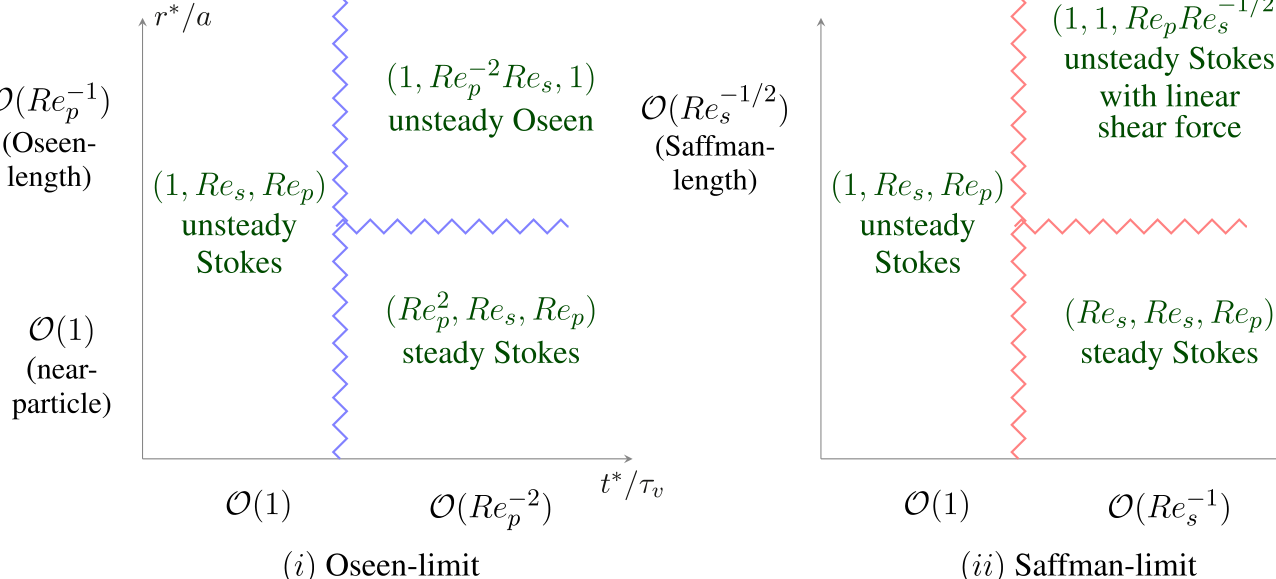
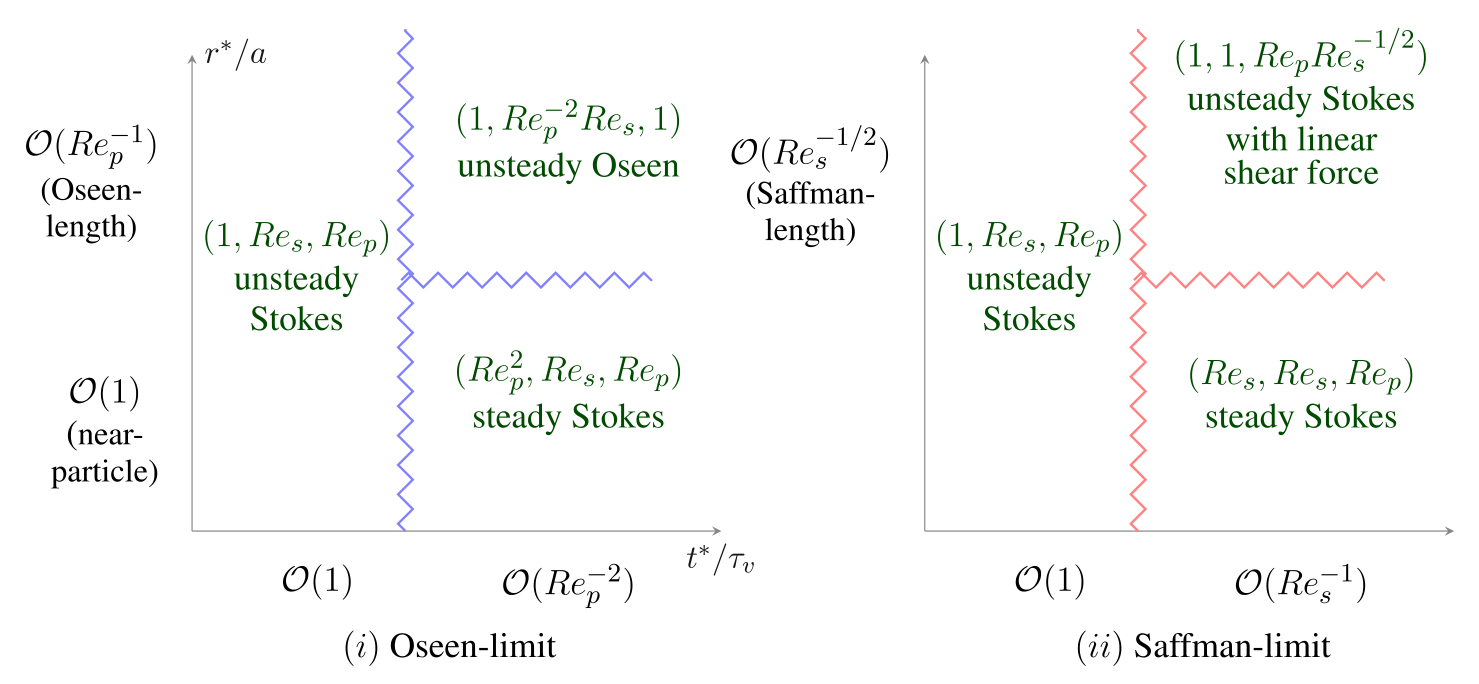
Restore complete axes and labels in example Figure 1

diff --git a/examples/README.md b/examples/README.md
@@ -21,6 +21,8 @@
 
 图 1 的原图注注明其示意构思源于 Bentwich and Miloh（1978）以及 Sano（1981）；这一署名和原参考文献保留。原文图注与表 1 未标示另行转载许可或独立第三方版权例外。示例中的论文文字、译文改编和图 1 按 CC BY 4.0 使用，并保留来源与改编说明。
 
+图 1 从原 PDF 第 4 页重新渲染，裁切范围为 `(51, 85, 544, 313)` PDF pt（原点在页面左上角），分辨率 216 dpi。已对照原页核对两个面板、全部坐标箭头、公式和子图标签；图注另保留为可编辑的中英文文字。PNG 与无损 WebP 使用同一完整裁切区域。
+
 ## 示例文件
 
 - `examples/vault/Papers/示例/流体力学/`：新建的中性索引与唯一论文集群。
